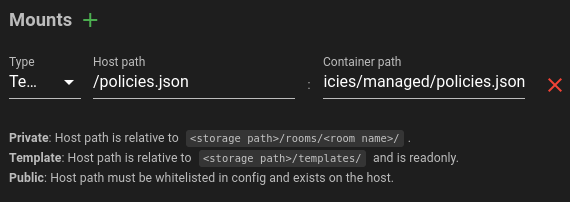
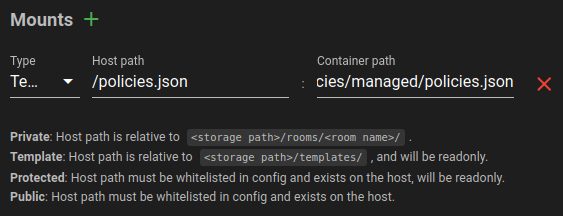
add protected room mount type.

diff --git a/client/src/components/RoomsCreate.vue b/client/src/components/RoomsCreate.vue
@@ -273,7 +273,8 @@
           <v-row align="center" no-gutters v-if="data.mounts.length > 0">
             <p>
               <strong>Private</strong>: Host path is relative to <code class="mx-1">&lt;storage path&gt;/rooms/&lt;room name&gt;/</code>. <br />
-              <strong>Template</strong>: Host path is relative to <code class="mx-1">&lt;storage path&gt;/templates/</code> and is readonly. <br />
+              <strong>Template</strong>: Host path is relative to <code class="mx-1">&lt;storage path&gt;/templates/</code>, and will be readonly. <br />
+              <strong>Protected</strong>: Host path must be whitelisted in config and exists on the host, will be readonly. <br />
               <strong>Public</strong>: Host path must be whitelisted in config and exists on the host.
             </p>
           </v-row>
@@ -502,6 +503,10 @@ export default class RoomsCreate extends Vue {
       {
         text: 'Template',
         value: 'template',
+      },
+      {
+        text: 'Protected',
+        value: 'protected',
       },
       {
         text: 'Public',

diff --git a/client/src/api/api.ts b/client/src/api/api.ts
@@ -337,6 +337,7 @@ export interface RoomMount {
 export enum RoomMountTypeEnum {
     private = 'private',
     template = 'template',
+    protected = 'protected',
     public = 'public'
 }
 

diff --git a/internal/room/manager.go b/internal/room/manager.go
@@ -336,7 +336,10 @@ func (manager *RoomManagerCtx) Create(settings types.RoomSettings) (string, erro
 
 			// prefix host path
 			hostPath = path.Join(manager.config.StorageExternal, templateStoragePath, hostPath)
-		} else if mount.Type == types.MountPublic {
+		} else if mount.Type == types.MountProtected || mount.Type == types.MountPublic {
+			// readonly if mount type is protected
+			readOnly = mount.Type == types.MountProtected
+
 			// public whitelisted mounts
 			var isAllowed = false
 			for _, path := range manager.config.MountsWhitelist {

diff --git a/internal/types/room.go b/internal/types/room.go
@@ -44,9 +44,10 @@ type RoomEntry struct {
 type MountType string
 
 const (
-	MountPrivate  MountType = "private"
-	MountTemplate MountType = "template"
-	MountPublic   MountType = "public"
+	MountPrivate   MountType = "private"
+	MountTemplate  MountType = "template"
+	MountProtected MountType = "protected"
+	MountPublic    MountType = "public"
 )
 
 type RoomMount struct {
